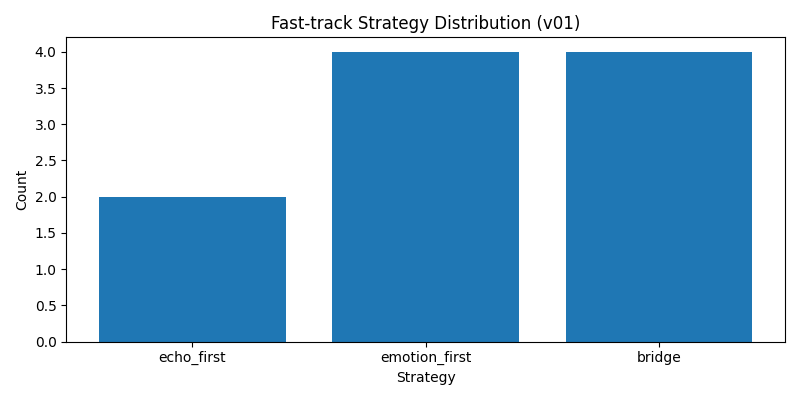
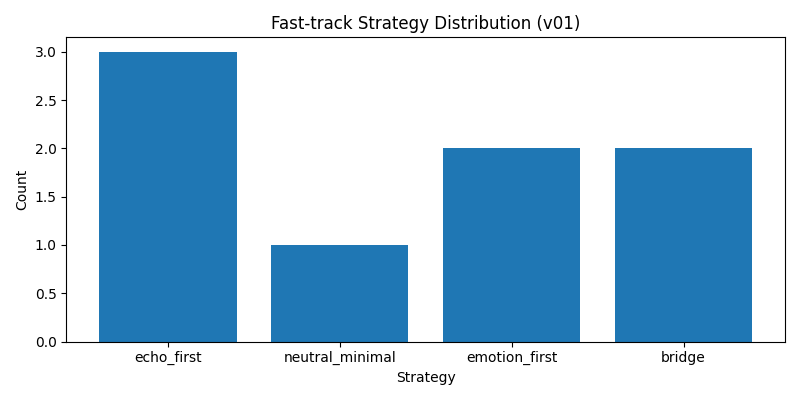
chore: expand reaction analysis outputs with detailed probability columns

diff --git a/AI_NPC_System/analyze_reactions.py b/AI_NPC_System/analyze_reactions.py
@@ -1,21 +1,34 @@
 import csv
-import json
-from collections import Counter, defaultdict
 from pathlib import Path
 
 import fast_lane
 
 TEST_TEXTS = [
-    "I passed the exam and I feel amazing.",
-    "I am scared about tomorrow's interview.",
-    "I am just drinking water now.",
-    "My friend ignored my message and I feel sad.",
-    "Wow, I didn't expect this at all.",
-    "Can you explain this one more time?",
-    "Everything is fine, just a normal day.",
-    "I am angry because my work got rejected.",
-    "I feel curious about this project idea.",
-    "I am relieved that the surgery ended well.",
+    "I just got promoted at work and I feel amazing.",
+    "I am really upset because my best friend ignored me.",
+    "I am drinking water and reading emails right now.",
+    "I feel terrified about tomorrow.",
+    "That was a wonderful surprise for me.",
+    "Can you explain this again?",
+    "I feel confused and not sure what to do.",
+    "Everything is normal and calm today.",
+]
+
+
+FIELDS = [
+    "text",
+    "emotion_label",
+    "strategy",
+    "reaction",
+    "echo_text",
+    "confidence_band",
+    "top1",
+    "margin",
+    "entropy",
+    "p_emotion_first",
+    "p_echo_first",
+    "p_bridge",
+    "p_neutral_minimal",
 ]
 
 
@@ -23,14 +36,11 @@ def ensure_dir(p: Path):
     p.mkdir(parents=True, exist_ok=True)
 
 
-def main():
-    root = Path(__file__).resolve().parent
-    out_dir = root / "analysis_outputs"
-    ensure_dir(out_dir)
-
+def run_tests():
     rows = []
     for t in TEST_TEXTS:
         r = fast_lane.analyze_and_react(t)
+        probs = r.get("action_probs", {}) or {}
         row = {
             "text": t,
             "emotion_label": r.get("emotion_label"),
@@ -41,46 +51,44 @@ def main():
             "top1": r.get("top1"),
             "margin": r.get("margin"),
             "entropy": r.get("entropy"),
-            "action_probs": json.dumps(r.get("action_probs", {}), ensure_ascii=False),
+            "p_emotion_first": probs.get("emotion_first"),
+            "p_echo_first": probs.get("echo_first"),
+            "p_bridge": probs.get("bridge"),
+            "p_neutral_minimal": probs.get("neutral_minimal"),
         }
         rows.append(row)
+    return rows
 
+
+def write_outputs(rows, out_dir: Path):
     csv_path = out_dir / "reaction_analysis_v01.csv"
     with csv_path.open("w", newline="", encoding="utf-8") as f:
-        w = csv.DictWriter(f, fieldnames=list(rows[0].keys()))
+        w = csv.DictWriter(f, fieldnames=FIELDS)
         w.writeheader()
         w.writerows(rows)
 
-    # markdown table summary
-    strategy_cnt = Counter([r["strategy"] for r in rows])
-    emotion_cnt = Counter([r["emotion_label"] for r in rows])
-
     md_path = out_dir / "reaction_analysis_v01.md"
     with md_path.open("w", encoding="utf-8") as f:
-        f.write("# Reaction Analysis v01\n\n")
-        f.write("## Strategy Count\n")
-        for k, v in strategy_cnt.items():
-            f.write(f"- {k}: {v}\n")
-        f.write("\n## Emotion Count\n")
-        for k, v in emotion_cnt.items():
-            f.write(f"- {k}: {v}\n")
-        f.write("\n## Per-turn Table\n\n")
-        f.write("| text | emotion | strategy | reaction | top1 | margin | entropy |\n")
-        f.write("|---|---|---|---|---:|---:|---:|\n")
+        f.write("# Reaction Analysis v01 (Detailed)\n\n")
+        f.write("| text | emotion | strategy | reaction | echo | top1 | margin | entropy | p(emotion) | p(echo) | p(bridge) | p(neutral) |\n")
+        f.write("|---|---|---|---|---|---:|---:|---:|---:|---:|---:|---:|\n")
         for r in rows:
-            text = r["text"].replace("|", " ")
-            reaction = str(r["reaction"]).replace("|", " ")
+            text = str(r['text']).replace('|', ' ')
+            reaction = str(r['reaction']).replace('|', ' ')
+            echo = str(r['echo_text']).replace('|', ' ')
             f.write(
-                f"| {text} | {r['emotion_label']} | {r['strategy']} | {reaction} | {r['top1']} | {r['margin']} | {r['entropy']} |\n"
+                f"| {text} | {r['emotion_label']} | {r['strategy']} | {reaction} | {echo} | {r['top1']} | {r['margin']} | {r['entropy']} | {r['p_emotion_first']} | {r['p_echo_first']} | {r['p_bridge']} | {r['p_neutral_minimal']} |\n"
             )
 
-    # graph
     png_path = out_dir / "reaction_strategy_distribution_v01.png"
     try:
         import matplotlib.pyplot as plt
+        from collections import Counter
 
-        labels = list(strategy_cnt.keys())
-        values = [strategy_cnt[k] for k in labels]
+        cnt = Counter([r["strategy"] for r in rows])
+        labels = list(cnt.keys())
+        values = [cnt[k] for k in labels]
+
         plt.figure(figsize=(8, 4))
         plt.bar(labels, values)
         plt.title("Fast-track Strategy Distribution (v01)")
@@ -89,12 +97,21 @@ def main():
         plt.tight_layout()
         plt.savefig(png_path)
         plt.close()
-        print(f"graph: {png_path}")
     except Exception as e:
         print(f"graph skipped: {e}")
 
+    return csv_path, md_path, png_path
+
+
+def main():
+    root = Path(__file__).resolve().parent
+    out_dir = root / "analysis_outputs"
+    ensure_dir(out_dir)
+    rows = run_tests()
+    csv_path, md_path, png_path = write_outputs(rows, out_dir)
     print(f"csv: {csv_path}")
     print(f"md: {md_path}")
+    print(f"png: {png_path}")
 
 
 if __name__ == "__main__":

diff --git a/AI_NPC_System/analysis_outputs/reaction_analysis_v01.md b/AI_NPC_System/analysis_outputs/reaction_analysis_v01.md
@@ -1,26 +1,12 @@
-# Reaction Analysis v01
+# Reaction Analysis v01 (Detailed)
 
-## Strategy Count
-- echo_first: 2
-- emotion_first: 4
-- bridge: 4
-
-## Emotion Count
-- positive: 4
-- negative: 3
-- ambiguous: 3
-
-## Per-turn Table
-
-| text | emotion | strategy | reaction | top1 | margin | entropy |
-|---|---|---|---|---:|---:|---:|
-| I passed the exam and I feel amazing. | positive | echo_first | Right, on that— | 0.8 | 0.6412 | 0.4525 |
-| I am scared about tomorrow's interview. | negative | emotion_first | I hear you. | 0.8996 | 0.8479 | 0.2931 |
-| I am just drinking water now. | positive | bridge | Right— | 0.5809 | 0.3486 | 0.7622 |
-| My friend ignored my message and I feel sad. | negative | emotion_first | That’s great. | 0.9113 | 0.8638 | 0.2695 |
-| Wow, I didn't expect this at all. | ambiguous | bridge | I’m here— | 0.7211 | 0.5695 | 0.5911 |
-| Can you explain this one more time? | ambiguous | emotion_first | That sounds rough. | 0.5529 | 0.2421 | 0.7208 |
-| Everything is fine, just a normal day. | positive | emotion_first | That’s great. | 0.7113 | 0.5875 | 0.6463 |
-| I am angry because my work got rejected. | negative | bridge | Mm, go on— | 0.9237 | 0.8839 | 0.2388 |
-| I feel curious about this project idea. | ambiguous | bridge | I’m here— | 0.6806 | 0.4186 | 0.5759 |
-| I am relieved that the surgery ended well. | positive | echo_first | Okay, about that— | 0.8156 | 0.7014 | 0.4574 |
+| text | emotion | strategy | reaction | echo | top1 | margin | entropy | p(emotion) | p(echo) | p(bridge) | p(neutral) |
+|---|---|---|---|---|---:|---:|---:|---:|---:|---:|---:|
+| I just got promoted at work and I feel amazing. | positive | echo_first | Okay, about that— | work? | 0.8252 | 0.6917 | 0.4206 | 0.51202 | 0.216137 | 0.2105 | 0.061343 |
+| I am really upset because my best friend ignored me. | negative | echo_first | Okay, about that— | friend? | 0.8711 | 0.7963 | 0.3498 | 0.584882 | 0.216447 | 0.153188 | 0.045484 |
+| I am drinking water and reading emails right now. | positive | neutral_minimal | Go ahead. |  | 0.4273 | 0.1352 | 0.8397 | 0.091593 | 0.09834 | 0.625056 | 0.185012 |
+| I feel terrified about tomorrow. | negative | emotion_first | Nice. | tomorrow? | 0.9073 | 0.8556 | 0.2769 | 0.637056 | 0.211172 | 0.116856 | 0.034915 |
+| That was a wonderful surprise for me. | positive | echo_first | Got it— | surprise? | 0.6237 | 0.2762 | 0.5634 | 0.249969 | 0.166513 | 0.456254 | 0.127264 |
+| Can you explain this again? | ambiguous | bridge | Mm, go on— |  | 0.5678 | 0.2409 | 0.6839 | 0.076373 | 0.09336 | 0.676896 | 0.153371 |
+| I feel confused and not sure what to do. | ambiguous | emotion_first | I hear you. |  | 0.851 | 0.7511 | 0.3821 | 0.391966 | 0.13759 | 0.38067 | 0.089774 |
+| Everything is normal and calm today. | positive | bridge | Mm, go on— | today? | 0.6914 | 0.5569 | 0.6687 | 0.30899 | 0.189532 | 0.386859 | 0.114618 |
